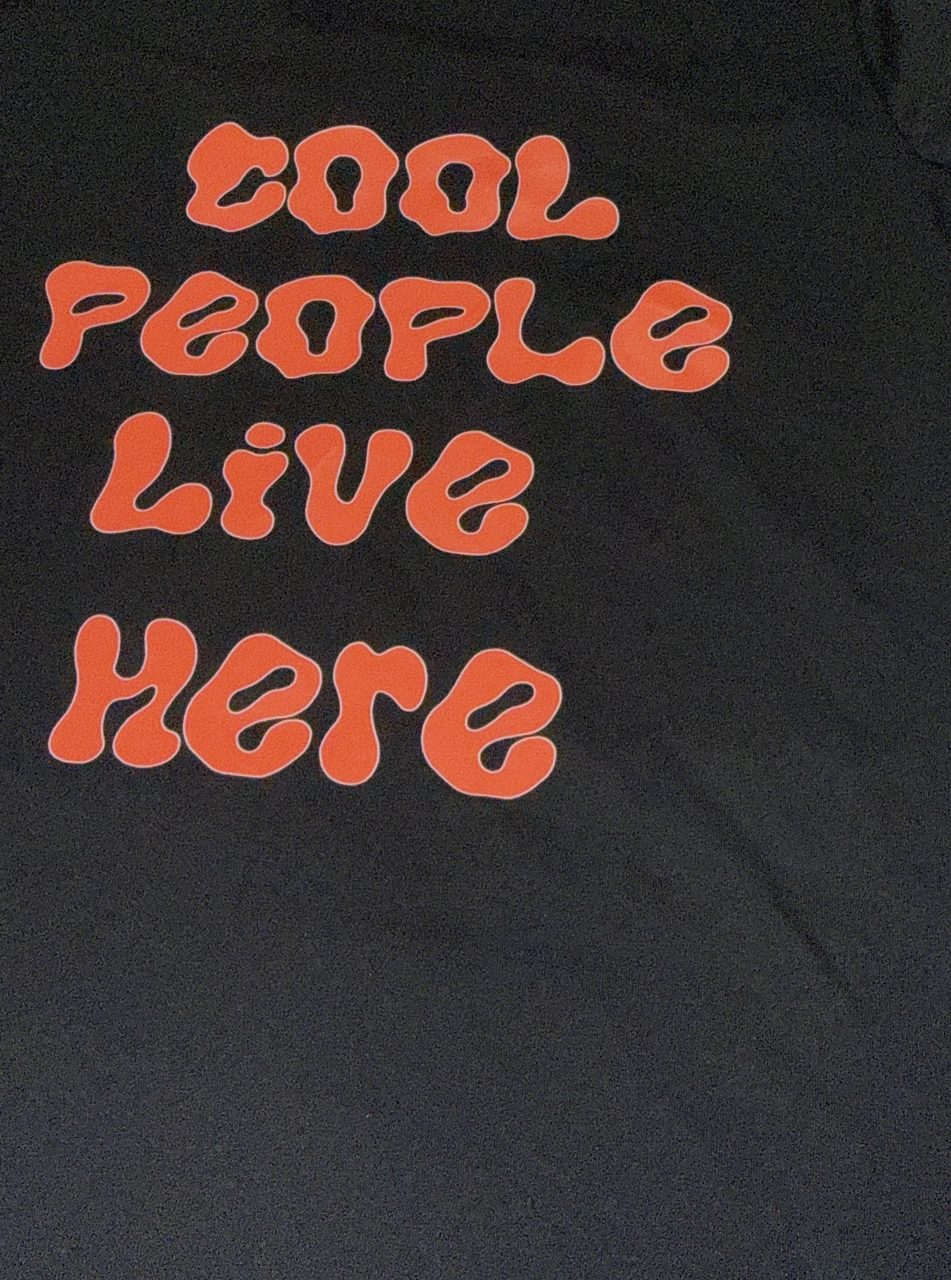
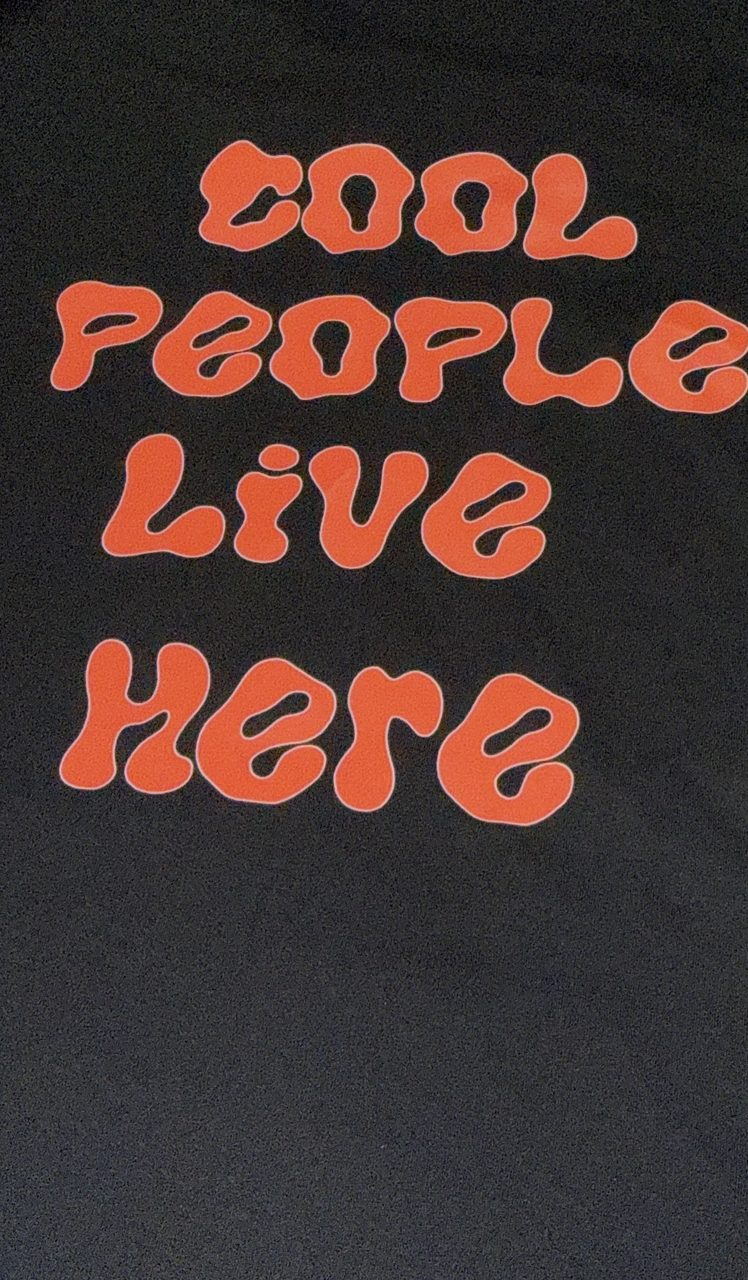
Correo corregido en todo el sitio y Cool People centrada
- [email redacted] → [email redacted]
  (17 ocurrencias: mailtos, canales de contacto, JSON-LD, shared.js)
- Foto de la camiseta Cool People re-recortada con el estampado
  centrado en el encuadre
- Assets a v=20260612m

diff --git a/modules/mockup/index.html b/modules/mockup/index.html
@@ -9,7 +9,7 @@
 <link rel="preconnect" href="https://fonts.googleapis.com">
 <link rel="preconnect" href="https://fonts.gstatic.com" crossorigin>
 <link href="https://fonts.googleapis.com/css2?family=Playfair+Display:ital,wght@0,400;0,500;0,700;1,400&family=Barlow:wght@200;300;400;500&family=Barlow+Condensed:wght@200;300;400;500;600&family=Inter:wght@300;400;500;600&display=swap" rel="stylesheet">
-<link rel="stylesheet" href="../../css/base.css?v=20260612l">
+<link rel="stylesheet" href="../../css/base.css?v=20260612m">
 <link rel="icon" type="image/png" href="../../imagenes/favicon.png">
 <style>
 /* ═══════════════════════════════════════════════════════
@@ -1147,8 +1147,8 @@ canvas#mc.can-rotate { cursor: crosshair; }
 
 <!-- ═══ SCRIPTS ═══════════════════════════════════════════ -->
 <script src="https://cdnjs.cloudflare.com/ajax/libs/jspdf/2.5.1/jspdf.umd.min.js"></script>
-<script src="../../js/whatsapp.js?v=20260612l"></script>
-<script src="../../js/leads.js?v=20260612l"></script>
+<script src="../../js/whatsapp.js?v=20260612m"></script>
+<script src="../../js/leads.js?v=20260612m"></script>
 
 <script>
 /* ════════════════════════════════════════════════════
@@ -1305,6 +1305,35 @@ function getLuminance(hex) {
 let GARMENT_CACHE = {};
 let GARMENT_LOADING = {};
 
+/* ── GEOMETRÍA DE ARRUGAS — fuente única ──
+   Estas curvas alimentan (a) el sombreado visual de la prenda,
+   (b) el overlay multiply que oscurece el logo, (c) el pase de luces
+   "screen" sobre el logo y (d) el MAPA DE ALTURAS del warp 2.5D.
+   Al compartir geometría, la deformación del diseño y las sombras de
+   la tela quedan alineadas por construcción. */
+function wrinkleOffset(view) { return view === 'back' ? [4, 6] : [0, 0]; }
+function getWrinkles(g) {
+  const hood = g === 'hoodie';
+  const W = [
+    ['M158,296 C198,286 240,300 282,292', .13, 8],
+    ['M170,366 C214,378 262,366 330,374', .12, 9],
+    ['M156,448 C208,438 286,454 346,442', .13, 9],
+    ['M204,212 C232,220 270,216 296,208', .10, 6],
+    ['M150,260 C158,310 152,358 158,406', .11, 7],
+    ['M350,262 C342,312 350,360 344,408', .11, 7],
+    /* Drape extra: tela suelta con caída natural, sin rigidez */
+    ['M168,330 C212,322 256,336 304,326', .09, 7],
+    ['M214,258 C248,266 288,260 320,254', .08, 6],
+    ['M164,418 C172,398 166,378 172,356', .09, 6],
+    ['M336,428 C330,406 338,384 332,360', .09, 6],
+  ];
+  /* Arruga baja: en hoodie sube para no caer sobre la banda rib */
+  W.push(hood
+    ? ['M188,470 C232,462 286,472 330,464', .09, 7]
+    : ['M186,498 C232,490 288,502 334,492', .10, 8]);
+  return W;
+}
+
 /* Sombreado orgánico, independiente del color de la prenda.
    boost amplifica las luces blancas cuando la tela es oscura;
    con boost=0 queda solo la parte oscura (overlay multiply del logo). */
@@ -1345,20 +1374,16 @@ function shadingFrag(g, view, boost) {
     s += `<path d="M72,100 C96,88 120,80 140,78" fill="none" stroke="#fff" stroke-width="9" opacity="${(.10 * boost).toFixed(2)}" filter="url(#b6)"/>`;
     s += `<path d="M428,100 C404,88 380,80 360,78" fill="none" stroke="#fff" stroke-width="9" opacity="${(.06 * boost).toFixed(2)}" filter="url(#b6)"/>`;
   }
-  /* Arrugas orgánicas: valle oscuro + cresta clara desplazada */
-  const W = [
-    ['M158,296 C198,286 240,300 282,292', .13, 8],
-    ['M170,366 C214,378 262,366 330,374', .12, 9],
-    ['M156,448 C208,438 286,454 346,442', .13, 9],
-    ['M204,212 C232,220 270,216 296,208', .10, 6],
-    ['M150,260 C158,310 152,358 158,406', .11, 7],
-    ['M350,262 C342,312 350,360 344,408', .11, 7],
-  ];
+  /* Arrugas orgánicas: valle oscuro + cresta clara desplazada
+     (geometría compartida con el height map del warp 2.5D) */
   const wb = Math.min(boost, 1.25); /* crestas blancas más sutiles que las luces globales */
-  W.forEach(([wd, o, w]) => {
+  const [wtx, wty] = wrinkleOffset(view);
+  s += `<g transform="translate(${wtx},${wty})">`;
+  getWrinkles(g).forEach(([wd, o, w]) => {
     s += `<path d="${wd}" transform="translate(0,-4)" fill="none" stroke="#fff" stroke-width="${w - 2}" opacity="${(o * .6 * wb).toFixed(2)}" filter="url(#b4)"/>`;
     s += `<path d="${wd}" fill="none" stroke="#000" stroke-width="${w}" opacity="${o}" filter="url(#b4)"/>`;
   });
+  s += `</g>`;
   return s;
 }
 
@@ -1500,8 +1525,11 @@ function buildGarmentSvg(g, view, color) {
   const texOp = dk ? .08 : .055;
   const halo  = dk ? .065 : .04;
   const d = GARMENT_D[g][view];
+  /* Seed determinista por prenda/vista: cada silueta ondula distinto */
+  const seed = ({ tshirt: 3, polo: 11, hoodie: 23, uniform: 31 })[g] + (view === 'back' ? 7 : 0);
   return `<svg xmlns="http://www.w3.org/2000/svg" viewBox="0 0 500 580" width="500" height="580">
 <defs>
+<filter id="cloth" x="-8%" y="-8%" width="116%" height="116%"><feTurbulence type="fractalNoise" baseFrequency="0.011 0.017" numOctaves="2" seed="${seed}" result="n"/><feDisplacementMap in="SourceGraphic" in2="n" scale="6.5" xChannelSelector="R" yChannelSelector="G"/></filter>
 <linearGradient id="dlight" x1="0" y1="0" x2="1" y2="1"><stop offset="0" stop-color="#ffffff" stop-opacity="${hi}"/><stop offset=".45" stop-color="#ffffff" stop-opacity="0"/><stop offset=".72" stop-color="#000000" stop-opacity="${(sh * .45).toFixed(3)}"/><stop offset="1" stop-color="#000000" stop-opacity="${sh}"/></linearGradient>
 <radialGradient id="chest"><stop offset="0" stop-color="#fff" stop-opacity=".26"/><stop offset="1" stop-color="#fff" stop-opacity="0"/></radialGradient>
 <radialGradient id="halo"><stop offset="0" stop-color="#fff" stop-opacity="${halo}"/><stop offset=".6" stop-color="#fff" stop-opacity="${halo*.35}"/><stop offset=".88" stop-color="#fff" stop-opacity="0"/></radialGradient>
@@ -1516,6 +1544,7 @@ function buildGarmentSvg(g, view, color) {
 </defs>
 <ellipse cx="250" cy="265" rx="195" ry="230" fill="url(#halo)"/>
 <ellipse cx="250" cy="556" rx="158" ry="11" fill="#000" opacity=".42" filter="url(#b12)"/>
+<g filter="url(#cloth)">
 <path d="${d}" fill="${color}"/>
 <g clip-path="url(#sil)">
 ${detailsFrag(g, view, P)}
@@ -1524,6 +1553,7 @@ ${shadingFrag(g, view, boost)}
 ${dk ? `<path d="${d}" fill="none" stroke="#fff" stroke-opacity=".06" stroke-width="7"/>` : ''}
 </g>
 <path d="${d}" fill="none" stroke="${rim}" stroke-width="1.6"/>
+</g>
 </svg>`;
 }
 
@@ -2355,7 +2385,7 @@ function generatePDF() {
   doc.text('ACOSER Taller Textil', 15, H-10);
   doc.setFont('helvetica', 'normal');
   doc.setFontSize(6.5);
-  doc.text('Corozal, Sucre, Colombia  ·  [phone redacted]  ·  [email redacted]', 15, H-5);
+  doc.text('Corozal, Sucre, Colombia  ·  [phone redacted]  ·  [email redacted]', 15, H-5);
   doc.text('Generated by ACOSER Studio', W-15, H-7, { align: 'right' });
 
   doc.save(`ficha-tecnica-acoser-${S.garment}-${S.sizeLabel}.pdf`);

diff --git a/index.html b/index.html
@@ -36,7 +36,7 @@
   "description": "Taller textil especializado en uniformes escolares, uniformes corporativos, confección personalizada, estampados DTF, bordados y sublimación para colegios, marcas y empresas en Colombia.",
   "url": "https://acoser-web.vercel.app",
   "telephone": "[phone redacted]",
-  "email": "[email redacted]",
+  "email": "[email redacted]",
   "address": {
     "@type": "PostalAddress",
     "addressLocality": "Corozal",
@@ -69,7 +69,7 @@
 <link href="https://fonts.googleapis.com/css2?family=Playfair+Display:ital,wght@0,400;0,500;0,700;1,400;1,500&family=Barlow:wght@200;300;400;500&family=Barlow+Condensed:wght@200;300;400;500;600&display=swap" rel="stylesheet">
 
 <!-- ─── ESTILOS ───────────────────────────────── -->
-<link rel="stylesheet" href="css/base.css?v=20260612l">
+<link rel="stylesheet" href="css/base.css?v=20260612m">
 
 <!-- Estilos propios del home (rediseño minimalista) -->
 <style>
@@ -515,8 +515,8 @@ a.service-row { text-decoration: none; color: inherit; }
             <span class="c-ico"><svg class="ln-ico" width="19" height="19" viewBox="0 0 20 20" fill="none" stroke="currentColor" stroke-width="1.4" stroke-linecap="round" stroke-linejoin="round" aria-hidden="true"><path d="M5 3h2.8l1.4 3.8-1.9 1.4a11.[phone redacted].5l1.4-1.9L17 12.2V15a2 2 0 0 1-2.1 2A13.[phone redacted] 5 3z"/></svg></span><div class="c-channel-left"><span class="c-channel-lbl">WhatsApp</span><span class="c-channel-val">[phone redacted]</span></div>
             <span class="c-channel-arr">&rarr;</span>
           </a>
-          <a href="mailto:[email redacted]" class="c-channel">
-            <span class="c-ico"><svg class="ln-ico" width="19" height="19" viewBox="0 0 20 20" fill="none" stroke="currentColor" stroke-width="1.4" stroke-linecap="round" stroke-linejoin="round" aria-hidden="true"><rect x="3" y="5" width="14" height="10.5" rx="1.3"/><path d="m3.6 6.2 6.4 4.9 6.4-4.9"/></svg></span><div class="c-channel-left"><span class="c-channel-lbl">Email</span><span class="c-channel-val">[email redacted]</span></div>
+          <a href="mailto:[email redacted]" class="c-channel">
+            <span class="c-ico"><svg class="ln-ico" width="19" height="19" viewBox="0 0 20 20" fill="none" stroke="currentColor" stroke-width="1.4" stroke-linecap="round" stroke-linejoin="round" aria-hidden="true"><rect x="3" y="5" width="14" height="10.5" rx="1.3"/><path d="m3.6 6.2 6.4 4.9 6.4-4.9"/></svg></span><div class="c-channel-left"><span class="c-channel-lbl">Email</span><span class="c-channel-val">[email redacted]</span></div>
             <span class="c-channel-arr">&rarr;</span>
           </a>
           <a href="https://instagram.com/acoser_tallertextil" class="c-channel" target="_blank">
@@ -627,7 +627,7 @@ a.service-row { text-decoration: none; color: inherit; }
       <span class="footer-col-head">Contacto</span>
       <ul class="footer-links">
         <li><a href="tel:[phone redacted]">[phone redacted]</a></li>
-        <li><a href="mailto:[email redacted]">[email redacted]</a></li>
+        <li><a href="mailto:[email redacted]">[email redacted]</a></li>
         <li><a href="https://instagram.com/acoser_tallertextil" target="_blank">@acoser_tallertextil</a></li>
         <li><a href="#">Corozal &mdash; Sucre, Colombia</a></li>
       </ul>
@@ -645,10 +645,10 @@ a.service-row { text-decoration: none; color: inherit; }
 
 <!-- Scripts -->
 <script src="https://cdn.jsdelivr.net/npm/@emailjs/browser@4/dist/email.min.js"></script>
-<script src="js/whatsapp.js?v=20260612l"></script>
-<script src="js/leads.js?v=20260612l"></script>
-<script src="js/core.js?v=20260612l"></script>
-<script src="js/emailjs-handler.js?v=20260612l"></script>
+<script src="js/whatsapp.js?v=20260612m"></script>
+<script src="js/leads.js?v=20260612m"></script>
+<script src="js/core.js?v=20260612m"></script>
+<script src="js/emailjs-handler.js?v=20260612m"></script>
 <script>
 /* index.html no requiere JS adicional — todo está en js/core.js y js/emailjs-handler.js */
 </script>

diff --git a/modules/calculadora-dtf/index.html b/modules/calculadora-dtf/index.html
@@ -9,8 +9,8 @@
 <link rel="preconnect" href="https://fonts.googleapis.com">
 <link rel="preconnect" href="https://fonts.gstatic.com" crossorigin>
 <link href="https://fonts.googleapis.com/css2?family=Playfair+Display:ital,wght@0,400;0,500;0,700;1,400;1,500&family=Barlow:wght@200;300;400;500&family=Barlow+Condensed:wght@200;300;400;500;600&display=swap" rel="stylesheet">
-<link rel="stylesheet" href="../../css/base.css?v=20260612l">
-<link rel="stylesheet" href="../../css/modules.css?v=20260612l">
+<link rel="stylesheet" href="../../css/base.css?v=20260612m">
+<link rel="stylesheet" href="../../css/modules.css?v=20260612m">
 <link rel="icon" type="image/png" href="../../imagenes/favicon.png">
 <style>
 .dtf-grid { display: grid; grid-template-columns: 1fr 1fr; gap: 2px; background: var(--dust); border: 1px solid var(--dust); margin-bottom: 3rem; }
@@ -248,7 +248,7 @@
       <span class="footer-col-head">Contacto</span>
       <ul class="footer-links">
         <li><a href="tel:[phone redacted]">[phone redacted]</a></li>
-        <li><a href="mailto:[email redacted]">[email redacted]</a></li>
+        <li><a href="mailto:[email redacted]">[email redacted]</a></li>
         <li><a href="https://instagram.com/acoser_tallertextil" target="_blank">@acoser_tallertextil</a></li>
       </ul>
     </div>
@@ -262,9 +262,9 @@
   </div>
 </footer>
 
-<script src="../../js/whatsapp.js?v=20260612l"></script>
-<script src="../../js/leads.js?v=20260612l"></script>
-<script src="../../js/core.js?v=20260612l"></script>
+<script src="../../js/whatsapp.js?v=20260612m"></script>
+<script src="../../js/leads.js?v=20260612m"></script>
+<script src="../../js/core.js?v=20260612m"></script>
 <script>
 /* ─── PRECIOS DTF ─── */
 const PRECIOS = [

diff --git a/modules/casos/index.html b/modules/casos/index.html
@@ -9,8 +9,8 @@
 <link rel="preconnect" href="https://fonts.googleapis.com">
 <link rel="preconnect" href="https://fonts.gstatic.com" crossorigin>
 <link href="https://fonts.googleapis.com/css2?family=Playfair+Display:ital,wght@0,400;0,500;0,700;1,400;1,500&family=Barlow:wght@200;300;400;500&family=Barlow+Condensed:wght@200;300;400;500;600&display=swap" rel="stylesheet">
-<link rel="stylesheet" href="../../css/base.css?v=20260612l">
-<link rel="stylesheet" href="../../css/modules.css?v=20260612l">
+<link rel="stylesheet" href="../../css/base.css?v=20260612m">
+<link rel="stylesheet" href="../../css/modules.css?v=20260612m">
 <style>
 .casos-grid { display: grid; grid-template-columns: repeat(3, 1fr); gap: 1px; background: var(--dust); }
 .caso-card { background: var(--ink2); position: relative; overflow: hidden; cursor: pointer; transition: background .35s; }
@@ -125,7 +125,7 @@
     <div><img class="footer-logo" src="../../imagenes/maquina.png" alt="" height="36" style="height:36px;width:auto"><span class="footer-brand-name">ACOSER</span><span class="footer-brand-sub">Taller Textil</span><p class="footer-brand-desc">Confeccionamos tus ideas a medida. Producción textil personalizada para marcas y empresas en Colombia.</p></div>
     <div><span class="footer-col-head">Herramientas</span><ul class="footer-links"><li><a href="../calculadora-dtf/">Calculadora DTF</a></li><li><a href="../mockup/">Mockup Generator</a></li><li><a href="../calculadora-tallas/">Guía de Tallas</a></li></ul></div>
     <div><span class="footer-col-head">Plataforma</span><ul class="footer-links"><li><a href="../../index.html">Inicio</a></li><li><a href="../colegios/">Colegios</a></li><li><a href="../empresas/">Empresas</a></li><li><a href="../casos/">Trayectoria</a></li></ul></div>
-    <div><span class="footer-col-head">Contacto</span><ul class="footer-links"><li><a href="tel:[phone redacted]">[phone redacted]</a></li><li><a href="mailto:[email redacted]">Email</a></li></ul></div>
+    <div><span class="footer-col-head">Contacto</span><ul class="footer-links"><li><a href="tel:[phone redacted]">[phone redacted]</a></li><li><a href="mailto:[email redacted]">Email</a></li></ul></div>
   </div>
   <div class="footer-bottom">
     <span class="footer-copy">&copy; 2026 <span>ACOSER Taller Textil</span></span>
@@ -133,8 +133,8 @@
   </div>
 </footer>
 
-<script src="../../js/whatsapp.js?v=20260612l"></script>
-<script src="../../js/leads.js?v=20260612l"></script>
-<script src="../../js/core.js?v=20260612l"></script>
+<script src="../../js/whatsapp.js?v=20260612m"></script>
+<script src="../../js/leads.js?v=20260612m"></script>
+<script src="../../js/core.js?v=20260612m"></script>
 </body>
 </html>

diff --git a/modules/colegios/index.html b/modules/colegios/index.html
@@ -9,8 +9,8 @@
 <link rel="preconnect" href="https://fonts.googleapis.com">
 <link rel="preconnect" href="https://fonts.gstatic.com" crossorigin>
 <link href="https://fonts.googleapis.com/css2?family=Playfair+Display:ital,wght@0,400;0,500;0,700;1,400;1,500&family=Barlow:wght@200;300;400;500&family=Barlow+Condensed:wght@200;300;400;500;600&display=swap" rel="stylesheet">
-<link rel="stylesheet" href="../../css/base.css?v=20260612l">
-<link rel="stylesheet" href="../../css/modules.css?v=20260612l">
+<link rel="stylesheet" href="../../css/base.css?v=20260612m">
+<link rel="stylesheet" href="../../css/modules.css?v=20260612m">
 <style>
 .emp-hero { display: grid; grid-template-columns: 1fr 1fr; min-height: 70vh; }
 .emp-hero-left { padding: calc(88px + 8vh) 4rem 8vh; background: var(--ink2); border-right: 1px solid var(--dust); display: flex; flex-direction: column; justify-content: flex-end; }
@@ -421,7 +421,7 @@
     <div><img class="footer-logo" src="../../imagenes/maquina.png" alt="" height="36" style="height:36px;width:auto"><span class="footer-brand-name">ACOSER</span><span class="footer-brand-sub">Taller Textil</span><p class="footer-brand-desc">Producción textil premium para marcas y empresas en toda Colombia.</p></div>
     <div><span class="footer-col-head">Plataforma</span><ul class="footer-links"><li><a href="../../index.html">Inicio</a></li><li><a href="../../index.html#services">Servicios</a></li><li><a href="../../index.html#contact">Cotizar</a></li></ul></div>
     <div><span class="footer-col-head">Herramientas</span><ul class="footer-links"><li><a href="../calculadora-dtf/">Calculadora DTF</a></li><li><a href="../mockup/">Mockup Generator</a></li><li><a href="../recursos/">Recursos</a></li></ul></div>
-    <div><span class="footer-col-head">Contacto</span><ul class="footer-links"><li><a href="tel:[phone redacted]">[phone redacted]</a></li><li><a href="mailto:[email redacted]">[email redacted]</a></li></ul></div>
+    <div><span class="footer-col-head">Contacto</span><ul class="footer-links"><li><a href="tel:[phone redacted]">[phone redacted]</a></li><li><a href="mailto:[email redacted]">[email redacted]</a></li></ul></div>
   </div>
   <div class="footer-bottom">
     <span class="footer-copy">&copy; 2026 <span>ACOSER Taller Textil</span> &mdash; Hecho en Colombia</span>
@@ -430,9 +430,9 @@
 </footer>
 
 <script src="https://cdn.jsdelivr.net/npm/@emailjs/browser@4/dist/email.min.js"></script>
-<script src="../../js/whatsapp.js?v=20260612l"></script>
-<script src="../../js/leads.js?v=20260612l"></script>
-<script src="../../js/core.js?v=20260612l"></script>
+<script src="../../js/whatsapp.js?v=20260612m"></script>
+<script src="../../js/leads.js?v=20260612m"></script>
+<script src="../../js/core.js?v=20260612m"></script>
 <script>
 emailjs.init({ publicKey: 'w2pKrH3klkmxpD0Iq' });
 

diff --git a/modules/empresas/index.html b/modules/empresas/index.html
@@ -9,8 +9,8 @@
 <link rel="preconnect" href="https://fonts.googleapis.com">
 <link rel="preconnect" href="https://fonts.gstatic.com" crossorigin>
 <link href="https://fonts.googleapis.com/css2?family=Playfair+Display:ital,wght@0,400;0,500;0,700;1,400;1,500&family=Barlow:wght@200;300;400;500&family=Barlow+Condensed:wght@200;300;400;500;600&display=swap" rel="stylesheet">
-<link rel="stylesheet" href="../../css/base.css?v=20260612l">
-<link rel="stylesheet" href="../../css/modules.css?v=20260612l">
+<link rel="stylesheet" href="../../css/base.css?v=20260612m">
+<link rel="stylesheet" href="../../css/modules.css?v=20260612m">
 <style>
 .emp-hero { display: grid; grid-template-columns: 1fr 1fr; min-height: 70vh; }
 .emp-hero-left { padding: calc(88px + 8vh) 4rem 8vh; background: var(--ink2); border-right: 1px solid var(--dust); display: flex; flex-direction: column; justify-content: flex-end; }
@@ -377,7 +377,7 @@
     <div><img class="footer-logo" src="../../imagenes/maquina.png" alt="" height="36" style="height:36px;width:auto"><span class="footer-brand-name">ACOSER</span><span class="footer-brand-sub">Taller Textil</span><p class="footer-brand-desc">Producción textil premium para marcas y empresas en toda Colombia.</p></div>
     <div><span class="footer-col-head">Plataforma</span><ul class="footer-links"><li><a href="../../index.html">Inicio</a></li><li><a href="../../index.html#services">Servicios</a></li><li><a href="../../index.html#contact">Cotizar</a></li></ul></div>
     <div><span class="footer-col-head">Herramientas</span><ul class="footer-links"><li><a href="../calculadora-dtf/">Calculadora DTF</a></li><li><a href="../mockup/">Mockup Generator</a></li><li><a href="../colegios/">Colegios</a></li><li><a href="../recursos/">Recursos</a></li></ul></div>
-    <div><span class="footer-col-head">Contacto</span><ul class="footer-links"><li><a href="tel:[phone redacted]">[phone redacted]</a></li><li><a href="mailto:[email redacted]">[email redacted]</a></li></ul></div>
+    <div><span class="footer-col-head">Contacto</span><ul class="footer-links"><li><a href="tel:[phone redacted]">[phone redacted]</a></li><li><a href="mailto:[email redacted]">[email redacted]</a></li></ul></div>
   </div>
   <div class="footer-bottom">
     <span class="footer-copy">&copy; 2026 <span>ACOSER Taller Textil</span> &mdash; Hecho en Colombia</span>
@@ -386,9 +386,9 @@
 </footer>
 
 <script src="https://cdn.jsdelivr.net/npm/@emailjs/browser@4/dist/email.min.js"></script>
-<script src="../../js/whatsapp.js?v=20260612l"></script>
-<script src="../../js/leads.js?v=20260612l"></script>
-<script src="../../js/core.js?v=20260612l"></script>
+<script src="../../js/whatsapp.js?v=20260612m"></script>
+<script src="../../js/leads.js?v=20260612m"></script>
+<script src="../../js/core.js?v=20260612m"></script>
 <script>
 emailjs.init({ publicKey: 'w2pKrH3klkmxpD0Iq' });
 

diff --git a/modules/recursos/index.html b/modules/recursos/index.html
@@ -9,8 +9,8 @@
 <link rel="preconnect" href="https://fonts.googleapis.com">
 <link rel="preconnect" href="https://fonts.gstatic.com" crossorigin>
 <link href="https://fonts.googleapis.com/css2?family=Playfair+Display:ital,wght@0,400;0,500;0,700;1,400;1,500&family=Barlow:wght@200;300;400;500&family=Barlow+Condensed:wght@200;300;400;500;600&display=swap" rel="stylesheet">
-<link rel="stylesheet" href="../../css/base.css?v=20260612l">
-<link rel="stylesheet" href="../../css/modules.css?v=20260612l">
+<link rel="stylesheet" href="../../css/base.css?v=20260612m">
+<link rel="stylesheet" href="../../css/modules.css?v=20260612m">
 <link rel="icon" type="image/png" href="../../imagenes/favicon.png">
 <style>
 .recurso-card { background: var(--ink2); border: 1px solid var(--dust); padding: 2.5rem 2rem; display: flex; flex-direction: column; gap: 1rem; transition: border-color .35s, background .35s; text-decoration: none; }
@@ -212,7 +212,7 @@
     <div><img class="footer-logo" src="../../imagenes/maquina.png" alt="" height="36" style="height:36px;width:auto"><span class="footer-brand-name">ACOSER</span><span class="footer-brand-sub">Taller Textil</span><p class="footer-brand-desc">Confección personalizada · Uniformes · DTF · Bordados · Colombia.</p></div>
     <div><span class="footer-col-head">Herramientas</span><ul class="footer-links"><li><a href="../calculadora-dtf/">Calculadora DTF</a></li><li><a href="../mockup/">Mockup Generator</a></li><li><a href="../calculadora-tallas/">Guía de Tallas</a></li><li><a href="../telas/">Comparador Telas</a></li></ul></div>
     <div><span class="footer-col-head">Plataforma</span><ul class="footer-links"><li><a href="../../index.html">Inicio</a></li><li><a href="../colegios/">Colegios</a></li><li><a href="../empresas/">Empresas</a></li><li><a href="../casos/">Trayectoria</a></li></ul></div>
-    <div><span class="footer-col-head">Contacto</span><ul class="footer-links"><li><a href="tel:[phone redacted]">[phone redacted]</a></li><li><a href="mailto:[email redacted]">Email</a></li><li><a href="https://instagram.com/acoser_tallertextil" target="_blank">Instagram</a></li></ul></div>
+    <div><span class="footer-col-head">Contacto</span><ul class="footer-links"><li><a href="tel:[phone redacted]">[phone redacted]</a></li><li><a href="mailto:[email redacted]">Email</a></li><li><a href="https://instagram.com/acoser_tallertextil" target="_blank">Instagram</a></li></ul></div>
   </div>
   <div class="footer-bottom">
     <span class="footer-copy">&copy; 2026 <span>ACOSER Taller Textil</span> &mdash; Hecho en Colombia</span>
@@ -220,9 +220,9 @@
   </div>
 </footer>
 
-<script src="../../js/whatsapp.js?v=20260612l"></script>
-<script src="../../js/leads.js?v=20260612l"></script>
-<script src="../../js/core.js?v=20260612l"></script>
+<script src="../../js/whatsapp.js?v=20260612m"></script>
+<script src="../../js/leads.js?v=20260612m"></script>
+<script src="../../js/core.js?v=20260612m"></script>
 <script>
 const FAQS = [
   { q:'¿Cuánto tiempo tarda una producción de camisetas?', a:'Depende del volumen y técnica. Para pedidos de 10–50 unidades con DTF: 3–5 días hábiles. Para bordados: 5–7 días. Pedidos mayores de 100 unidades: 7–14 días. Siempre confirmamos el plazo exacto al cotizar.' },

diff --git a/modules/telas/index.html b/modules/telas/index.html
@@ -9,8 +9,8 @@
 <link rel="preconnect" href="https://fonts.googleapis.com">
 <link rel="preconnect" href="https://fonts.gstatic.com" crossorigin>
 <link href="https://fonts.googleapis.com/css2?family=Playfair+Display:ital,wght@0,400;0,500;0,700;1,400;1,500&family=Barlow:wght@200;300;400;500&family=Barlow+Condensed:wght@200;300;400;500;600&display=swap" rel="stylesheet">
-<link rel="stylesheet" href="../../css/base.css?v=20260612l">
-<link rel="stylesheet" href="../../css/modules.css?v=20260612l">
+<link rel="stylesheet" href="../../css/base.css?v=20260612m">
+<link rel="stylesheet" href="../../css/modules.css?v=20260612m">
 <link rel="icon" type="image/png" href="../../imagenes/favicon.png">
 <style>
 .tela-card { background: var(--ink2); border: 1px solid var(--dust); padding: 2.5rem 2rem; transition: border-color .35s ease, background .35s ease; cursor: pointer; position: relative; overflow: hidden; }
@@ -110,7 +110,7 @@
     <div><img class="footer-logo" src="../../imagenes/maquina.png" alt="" height="36" style="height:36px;width:auto"><span class="footer-brand-name">ACOSER</span><span class="footer-brand-sub">Taller Textil</span><p class="footer-brand-desc">Confección personalizada para marcas y empresas en toda Colombia.</p></div>
     <div><span class="footer-col-head">Herramientas</span><ul class="footer-links"><li><a href="../calculadora-dtf/">Calculadora DTF</a></li><li><a href="../mockup/">Mockup Generator</a></li><li><a href="../calculadora-tallas/">Guía de Tallas</a></li><li><a href="../telas/">Comparador Telas</a></li></ul></div>
     <div><span class="footer-col-head">Plataforma</span><ul class="footer-links"><li><a href="../../index.html">Inicio</a></li><li><a href="../colegios/">Colegios</a></li><li><a href="../empresas/">Empresas</a></li><li><a href="../recursos/">Recursos</a></li></ul></div>
-    <div><span class="footer-col-head">Contacto</span><ul class="footer-links"><li><a href="tel:[phone redacted]">[phone redacted]</a></li><li><a href="mailto:[email redacted]">Email</a></li></ul></div>
+    <div><span class="footer-col-head">Contacto</span><ul class="footer-links"><li><a href="tel:[phone redacted]">[phone redacted]</a></li><li><a href="mailto:[email redacted]">Email</a></li></ul></div>
   </div>
   <div class="footer-bottom">
     <span class="footer-copy">&copy; 2026 <span>ACOSER Taller Textil</span></span>
@@ -118,9 +118,9 @@
   </div>
 </footer>
 
-<script src="../../js/whatsapp.js?v=20260612l"></script>
-<script src="../../js/leads.js?v=20260612l"></script>
-<script src="../../js/core.js?v=20260612l"></script>
+<script src="../../js/whatsapp.js?v=20260612m"></script>
+<script src="../../js/leads.js?v=20260612m"></script>
+<script src="../../js/core.js?v=20260612m"></script>
 <script>
 const TELAS = [
   {

diff --git a/modules/calculadora-tallas/index.html b/modules/calculadora-tallas/index.html
@@ -651,8 +651,8 @@ html,body{height:100%;overflow:hidden;background:var(--s-bg);color:var(--s-cream
   </div>
 </div>
 
-<script src="../../js/whatsapp.js?v=20260612l"></script>
-<script src="../../js/leads.js?v=20260612l"></script>
+<script src="../../js/whatsapp.js?v=20260612m"></script>
+<script src="../../js/leads.js?v=20260612m"></script>
 <script>
 /* ══════════════════════════════════════════
    ACOSER Guía de Tallas Studio — v3 Premium

diff --git a/js/shared.js b/js/shared.js
@@ -107,7 +107,7 @@ const ACOSER_UI = (function () {
       <span class="footer-col-head">Contacto</span>
       <ul class="footer-links">
         <li><a href="tel:[phone redacted]">[phone redacted]</a></li>
-        <li><a href="mailto:[email redacted]">[email redacted]</a></li>
+        <li><a href="mailto:[email redacted]">[email redacted]</a></li>
         <li><a href="https://instagram.com/acoser_tallertextil" target="_blank">@acoser_tallertextil</a></li>
         <li><a href="#">Corozal &mdash; Sucre, Colombia</a></li>
       </ul>